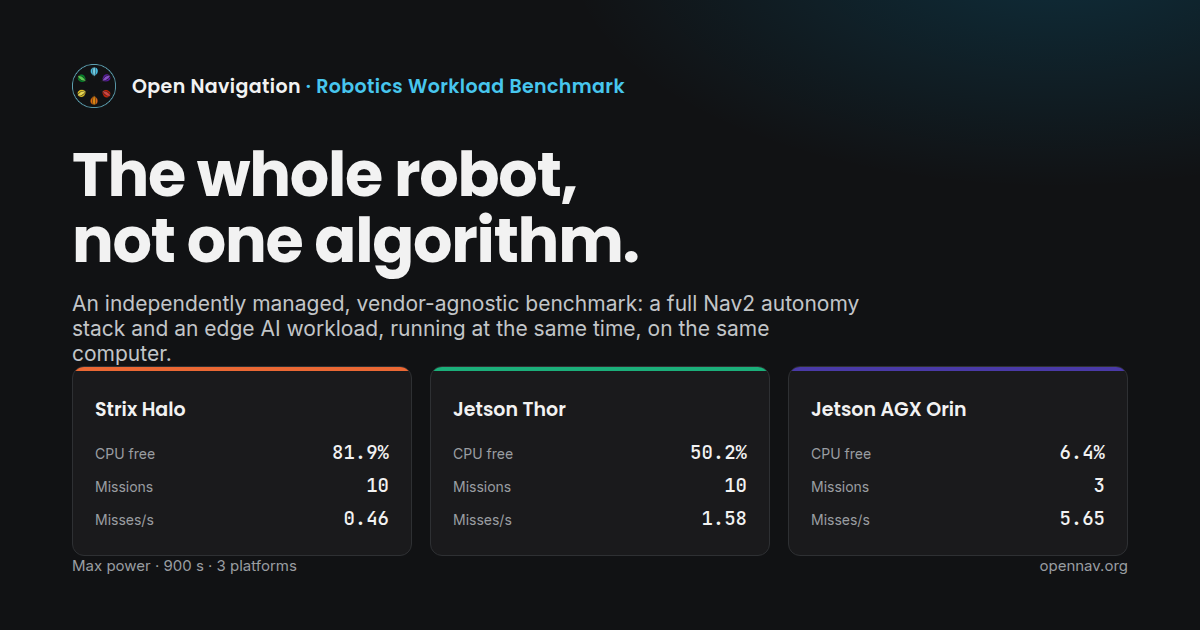
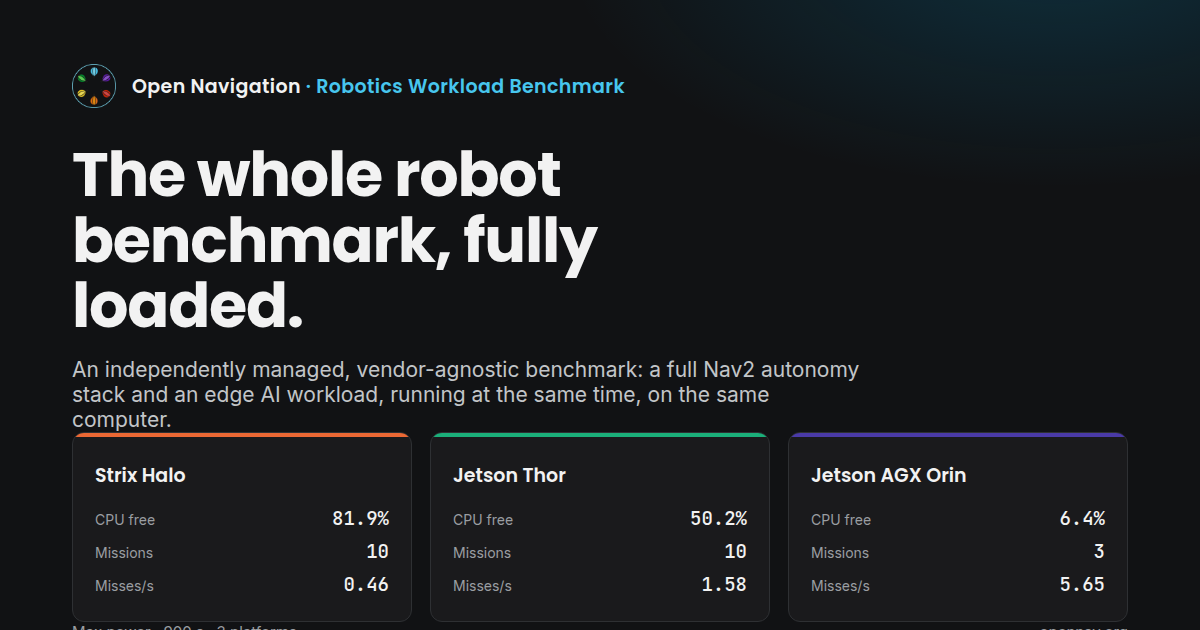
Clean up for future additions

diff --git a/site/src/lib/data.ts b/site/src/lib/data.ts
@@ -189,6 +189,11 @@ export const defaultCategory = categories[0];
  * CSS variable holding each platform's series color. One hue per platform,
  * used identically on every chart site-wide. TDP variants of the same
  * platform share the hue and are separated by a dashed stroke.
+ *
+ * Adding a platform means adding an entry here AND defining the variable in
+ * all three theme blocks of styles/tokens.css. Miss either and the platform
+ * renders in --series-neutral grey rather than failing, so check a chart and
+ * a results table after adding one. See site/README.md.
  */
 export const seriesVar: Record<string, string> = {
   amd_strix_halo: '--series-amd',

diff --git a/site/src/lib/charts.ts b/site/src/lib/charts.ts
@@ -12,6 +12,7 @@ import {
   decimate,
   fmt,
   isVariant,
+  seriesVar,
   timeseriesFor,
   type Run,
   type Timeseries,
@@ -78,13 +79,8 @@ function lineSpec(runs: Run[], metric: string, yName: string, unit: string, digi
 }
 
 function seriesVarName(run: Run, all: Run[]): string {
-  const map: Record<string, string> = {
-    amd_strix_halo: '--series-amd',
-    jetson_thor: '--series-thor',
-    jetson_orin: '--series-orin',
-  };
   void all;
-  return map[run.platform] ?? '--series-neutral';
+  return seriesVar[run.platform] ?? '--series-neutral';
 }
 
 /** Summary table for a time-series chart: distribution, not 900 raw rows. */

diff --git a/site/README.md b/site/README.md
@@ -24,9 +24,11 @@ The build consumes whatever is committed. That keeps the published dataset revie
 diffs and keeps Python out of the deploy path — at the cost of one rule you have to follow, described
 under [The contract](#the-contract) below.
 
-The exporter is the only place a benchmark category is named. Every route, selector, and chart on the
-site is generated from the exported data, so publishing a new category or platform is an exporter
-change, not a website change.
+The exporter is the only place a benchmark category is named. Routes are generated from the data —
+`getStaticPaths()` in `src/pages/results/[category].astro` maps over the exported categories and
+`src/pages/platforms/[platform].astro` maps over `platformOrder` — so **adding a category is an
+exporter change alone**. Adding a *platform* is not: it also needs a color, prose, and a docs page
+that cannot be inferred from measurements. See [Adding a platform](#adding-a-platform) below.
 
 ## Prerequisites
 
@@ -70,18 +72,102 @@ Run `make site-check` before pushing to catch it locally. Because `deploy` is ga
 checks with `needs:`, a failure here means nothing is published — the previously deployed site stays
 up.
 
-## Adding a run or a category
+## Adding a run to an existing platform
 
-The exporter only looks at run directories declared in its `CATEGORIES` registry. A directory that
-exists in `opennav_benchmark_logs/` but is not declared is not silently ignored — `--strict` fails
-the build and names it, because a new run needs a display label, a TDP, and a decision about whether
-it is published, and none of that can be inferred.
+Drop the run into `opennav_benchmark_logs/<category>/<name>/` and add a `RunSpec` to the matching
+`Category` in `CATEGORIES` (`export_site_data.py`). A `RunSpec` is
+`(key, platform, label, log_dir, tdp_w=..., note='')`, where `key` is unique within the category,
+`platform` is a key from `PLATFORMS`, and `log_dir` is relative to the logs root. Then
+`make site-data` and commit. Nothing in the website enumerates runs.
 
-`--strict` checks both directions, so it also fails when a published `RunSpec` points at a log
-directory that no longer exists — otherwise a rename would quietly drop a platform from the
-comparison.
+The exporter only looks at directories declared in `CATEGORIES`. One that exists on disk but is not
+declared is **not** silently ignored — `--strict` fails and names it, because a run needs a display
+label, a TDP, and a publish decision that cannot be inferred. `--strict` checks both directions, so
+it also fails when a published `RunSpec` points at a log directory that no longer exists; otherwise a
+rename would quietly drop a platform from the comparison.
 
-See [Adding a platform](src/content/docs/docs/adding-a-platform.md) for the full submission process.
+Two `RunSpec`s may point at the same `log_dir` — `balanced_power`'s Orin entry reuses
+`max_power/jetson_orin`, since that board is already at its maximum TDP. Use `note=` to explain any
+such reuse; it renders on the results page.
+
+## Adding a category
+
+Add a `Category` to `CATEGORIES` with a unique `key`, a `label`, an `order` (controls display
+order), a `description`, and its `runs`. Set `published=False` to keep it out of the site while
+still registering its log directories; flip it to `True` and re-export to publish. Routes, selectors,
+tables and charts all follow from the data — no site edits.
+
+## Adding a platform
+
+This is the one change that spans both sides of the repo. A new board needs a color, prose, and
+documentation that no measurement can supply. Work through all of it, then `make site-data`.
+
+**In `opennav_benchmark_analysis/`:**
+
+1. `utils.py` → `PLATFORM_LABELS`: the canonical key and display name.
+2. `export_site_data.py` → `SENSOR_DRIVER_LOAD`: measured per-sensor CPU cost, as a fraction of one
+   core. Mirrors `HARDWARE_PROFILES` in
+   `opennav_benchmark_pipeline/scripts/hardware_platforms.py`; keep the two in step.
+3. `export_site_data.py` → `PLATFORMS`: the full record — `slug` (its URL and docs filename),
+   `label` / `short_label` / `tile_label`, `vendor`, `vendor_url`, `summary`, the `spec` block, and
+   `as_tested`. Copy an existing entry and fill every field; pages render them positionally.
+4. `export_site_data.py` → `PLATFORM_ORDER`: controls column and series order site-wide.
+5. `export_site_data.py` → `CATEGORIES`: a `RunSpec` in each category it competes in.
+
+**In `site/`:**
+
+6. `src/styles/tokens.css` → a `--series-<name>` variable in **all three** theme blocks: bare
+   `:root`, the `prefers-color-scheme: dark` block, and the `[data-theme="dark"]` block. Missing the
+   dark ones gives a color that vanishes for half your readers. The palette is a validated
+   categorical set — pick a hue that stays distinguishable from the existing three in both themes.
+7. `src/lib/data.ts` → `seriesVar`: map the platform key to that variable. This is the single source
+   of truth; `lib/charts.ts` and every page read it through `colorFor()`. **It fails soft** — an
+   unmapped platform renders in neutral grey rather than erroring, so open a chart and a results
+   table and confirm the new color actually appears.
+8. `src/content/platform-notes.ts` → `PLATFORM_NOTES`: `verdict`, `strengths`, `limits`. Read the
+   header comment first — nothing here may assert anything the report does not.
+9. `src/pages/platforms/[platform].astro` → the `setupDoc` map, linking the platform key to the
+   filename of its setup page.
+10. `src/content/docs/docs/platform-setup/<slug>.md` → a new Starlight page with `title` and
+    `description` frontmatter.
+11. `astro.config.mjs` → a sidebar entry under "Platform setup". The sidebar is hand-maintained; a
+    page absent from it builds and is reachable by URL but appears in no navigation.
+12. `scripts/make-og-image.mjs` → the `CARDS` array, if the board should appear on the social card.
+    Re-run it (see [The social card](#the-social-card)).
+
+Finally, `make site-check` and `make site-dev`, then check the home page, `/platforms/<slug>`, and
+one `/results/<category>` page.
+
+See [Adding a platform](src/content/docs/docs/adding-a-platform.md) for the contributor-facing
+submission process.
+
+## Editing the site itself
+
+| To change | Edit |
+| --- | --- |
+| Home page, headline findings | `src/pages/index.astro` |
+| Methodology / About prose | `src/pages/methodology.astro`, `src/pages/about.astro` |
+| Per-category comparison page | `src/pages/results/[category].astro` |
+| Per-platform page | `src/pages/platforms/[platform].astro` |
+| **Which charts exist, and their tables** | `src/lib/charts.ts` |
+| Chart rendering and interaction | `src/components/Chart.astro`, `src/scripts/charts.ts` |
+| Colors, spacing, typography | `src/styles/tokens.css` |
+| Header, footer, meta tags | `src/layouts/BaseLayout.astro` |
+
+`src/lib/charts.ts` is where nearly all chart work happens. `comparisonSections()` builds the
+multi-platform charts for a category page and `singleRunSections()` builds the single-run charts for
+a platform page; both return `Section[]`, which `ChartSection.astro` renders. Helpers already exist
+for the common shapes — `lineSpec`, `coloredBarSpec`, `groupedSpec`, `headroomSpec`, `statTable` —
+so add a chart by composing those rather than hand-rolling an ECharts option object. Every chart
+carries a summary table, not 900 raw rows.
+
+To surface a metric that is not exported yet, add it to `TIMESERIES_METRICS` in
+`export_site_data.py` and give it a display name in `METRIC_LABELS` in `utils.py`, then re-export.
+
+**The docs pages under `src/content/docs/docs/` are hand-maintained forks of the markdown in the
+repo's top-level `docs/`**, with Starlight frontmatter and reworked headings. They are not synced:
+editing `docs/practitioners_guide.md` does not change the website, and vice versa. Update both when
+the content is meant to match.
 
 ## Assets
 
@@ -98,5 +184,18 @@ on the published page.
 
 `site/public/og.png` is generated by `node scripts/make-og-image.mjs` (run from `site/`), which reads
 its headline figures from `src/data/runs.json` so the card cannot drift from the results. It needs a
-local Chrome or Chromium, and its output is committed, so CI never runs it. Re-run it when the
-headline numbers change.
+local Chrome or Chromium, and its output is committed, so CI never runs it.
+
+Re-run it, and commit the result, whenever the headline numbers change:
+
+```sh
+cd site && node scripts/make-og-image.mjs
+```
+
+Unlike the rest of the site, its `CARDS` array names run ids and hex colors literally
+(`max_power__amd_strix_halo`, …). Adding a platform or renaming a run does not update the card — edit
+that array. The colors there are also literal hex rather than the `--series-*` tokens, because the
+card is rasterized outside the page; keep them in step with `src/styles/tokens.css` by hand.
+
+The mark it draws comes from `public/images/opennav-mark.png`, which is synced from `docs/images/`,
+so run a build (or `npm run sync-assets`) at least once in a fresh clone before generating the card.
